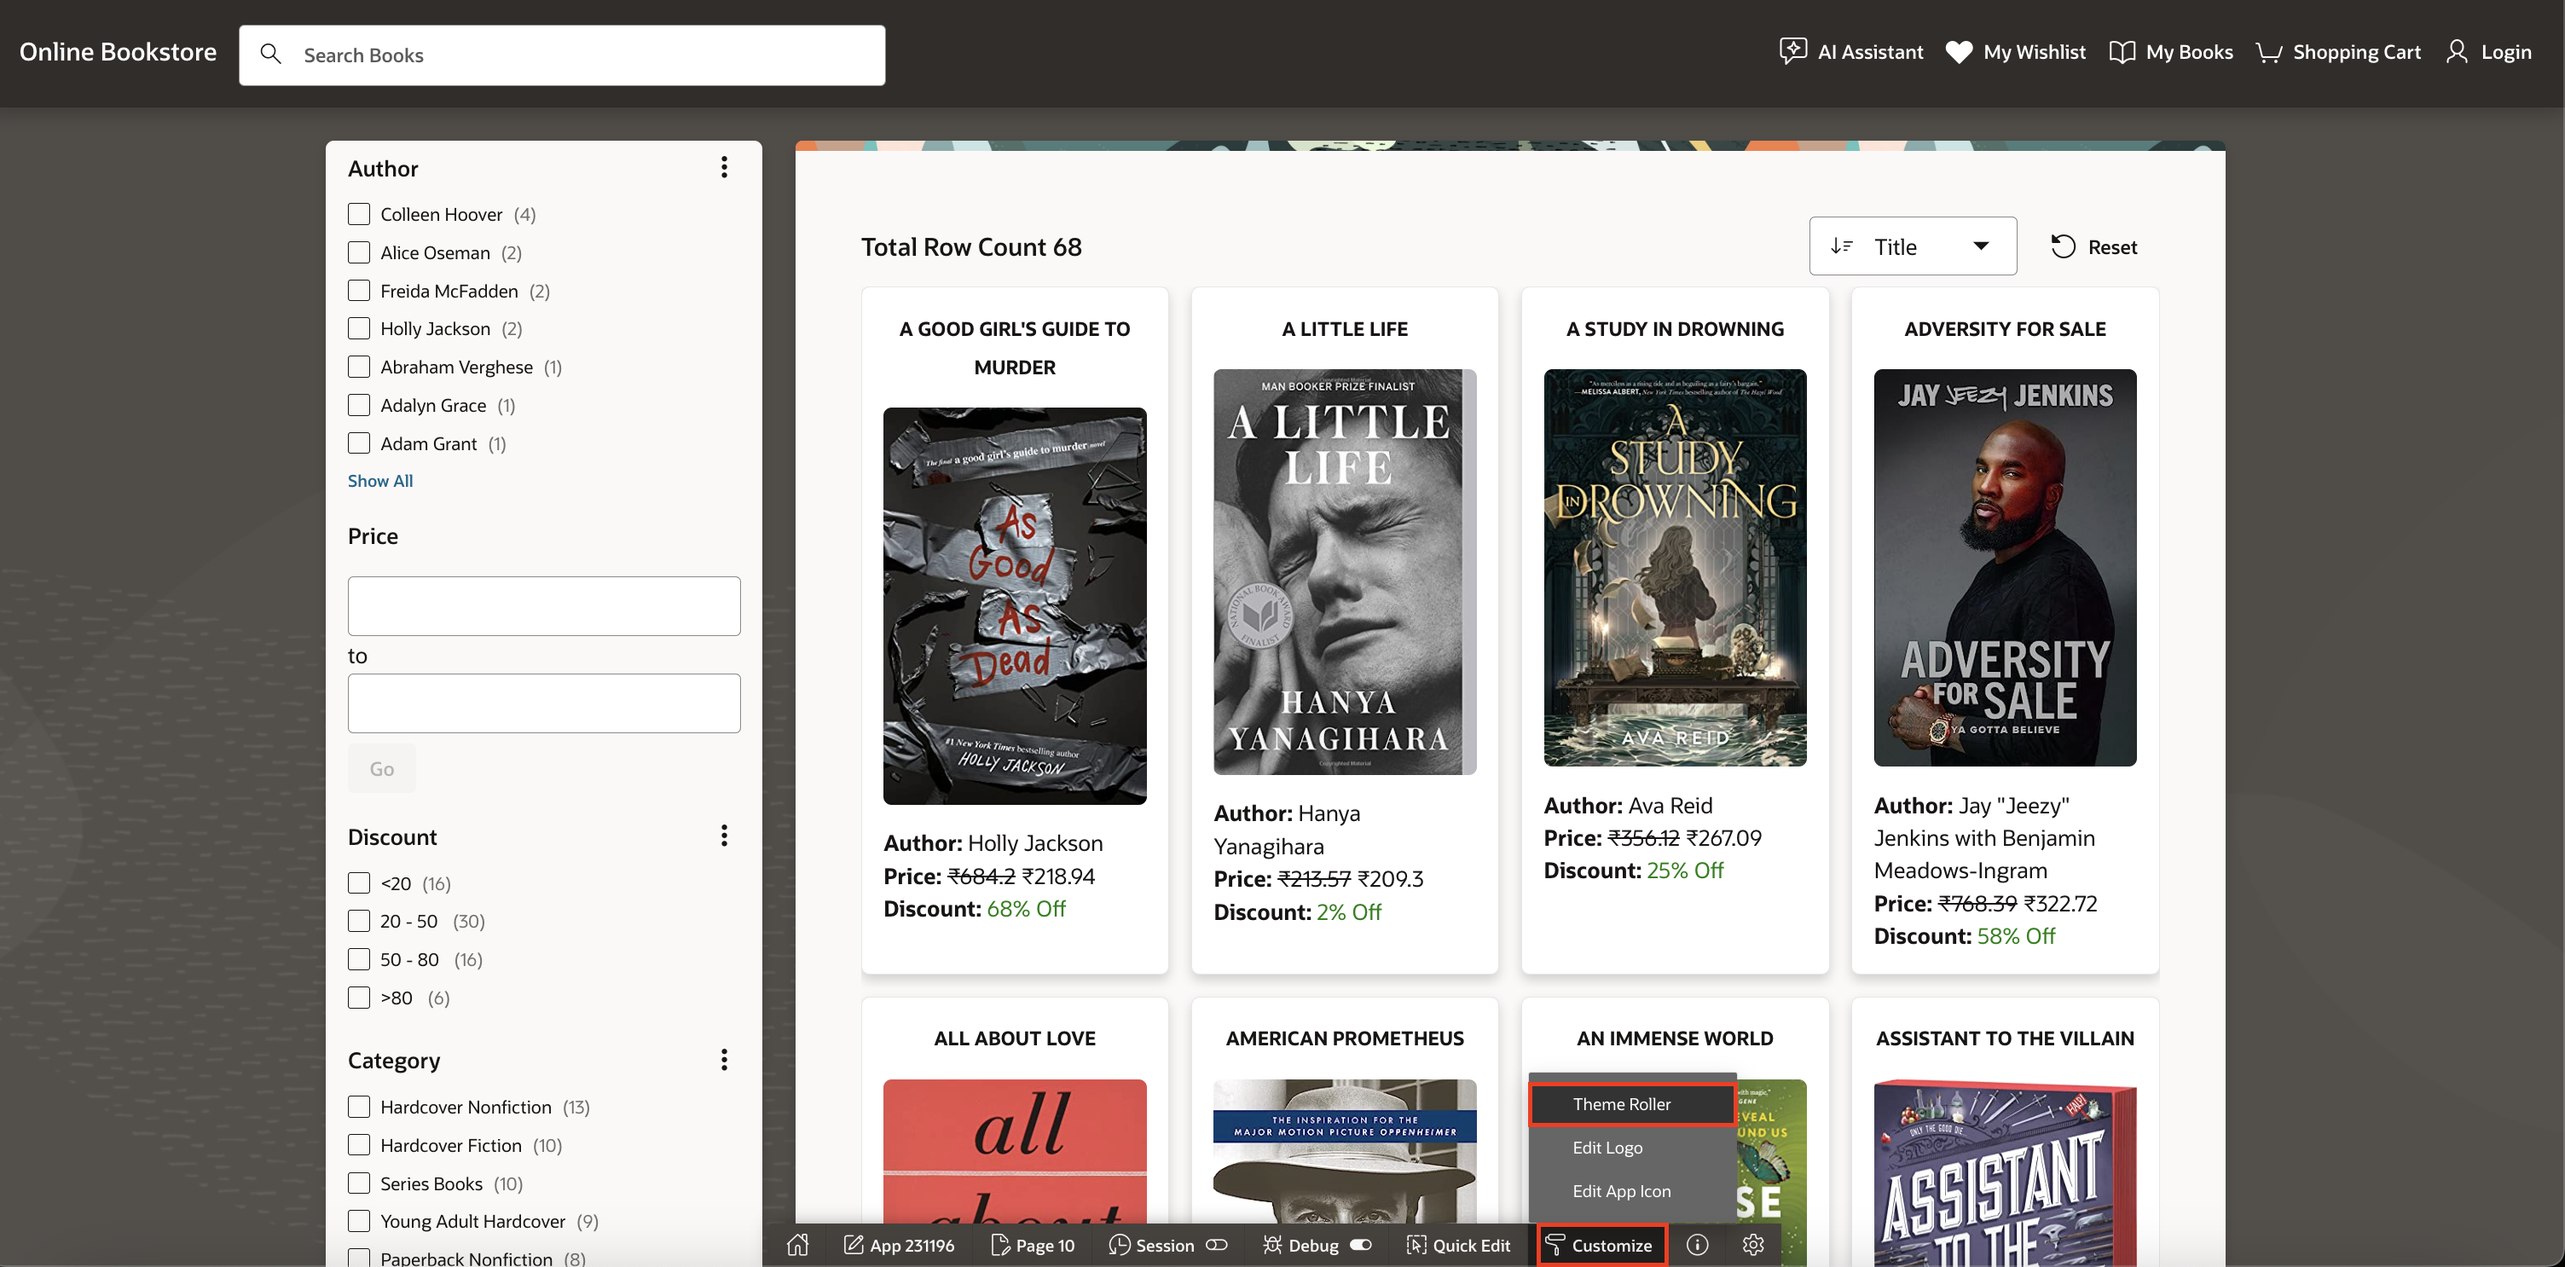
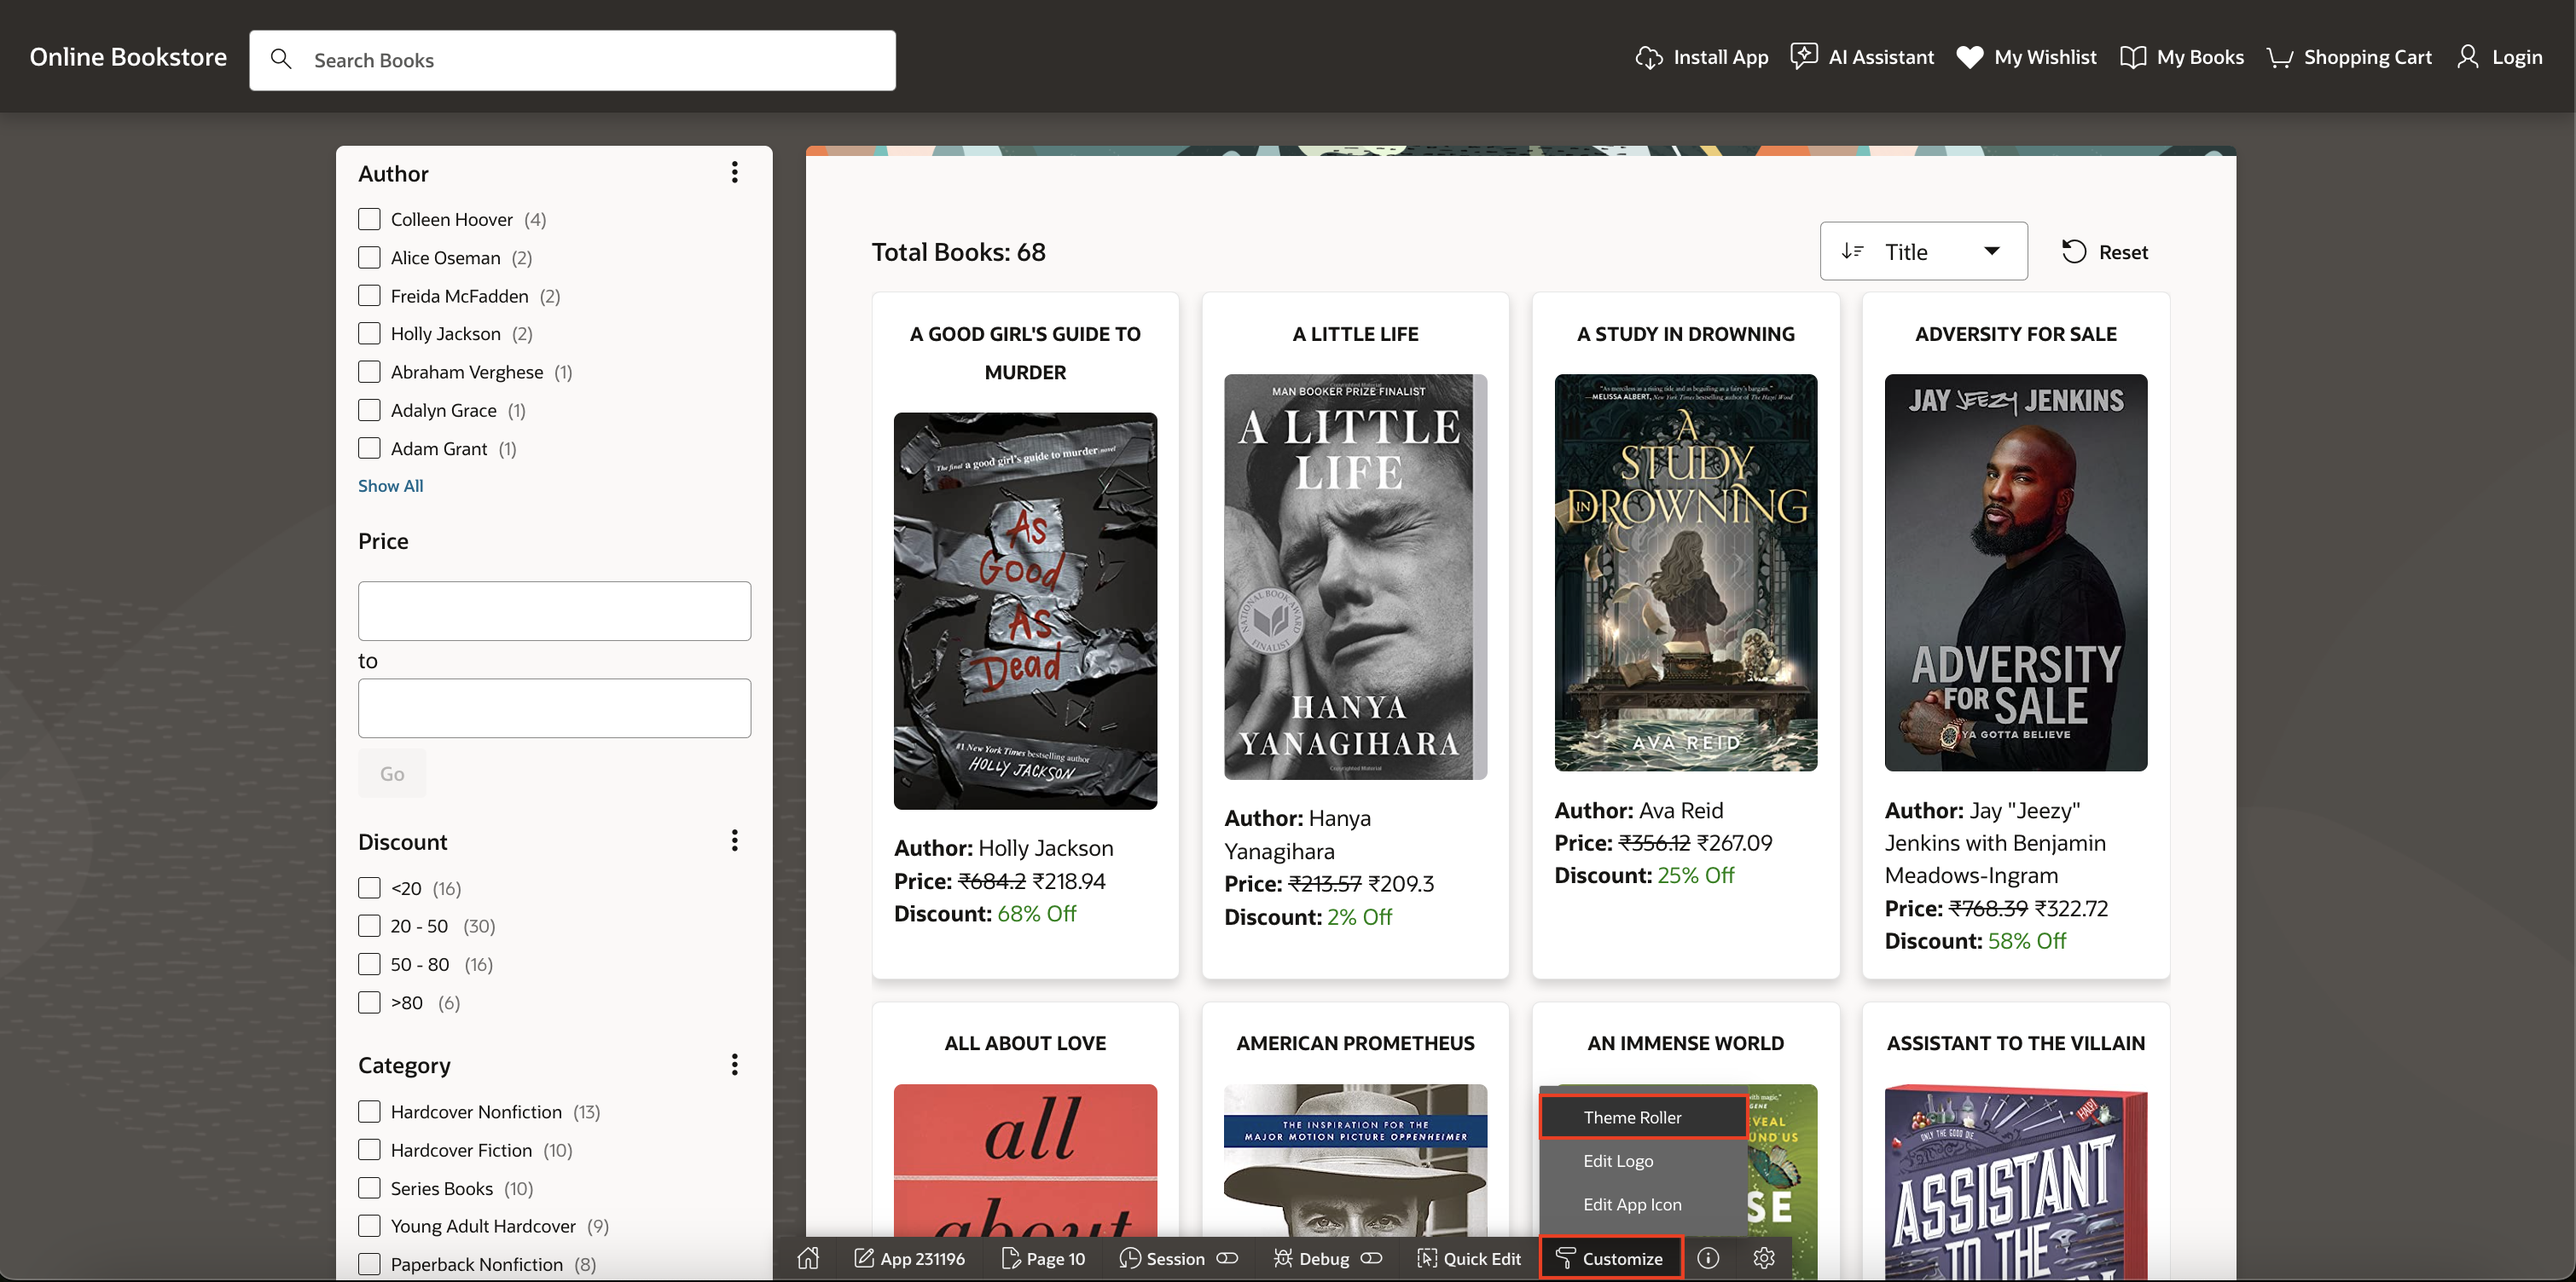
OBS 24.2 - UI results added after each task till Lab 17

diff --git a/online-book-store-app/17-enhance-ai-assistant/17-enhance-ai-assistant.md b/online-book-store-app/17-enhance-ai-assistant/17-enhance-ai-assistant.md
@@ -110,6 +110,20 @@ In this lab, you will:
 
     ![Page Designer](images/17-1-10.png ' ')
 
+## Task 2: Run the Application
+
+1. Run the application and click **AI Assistant** entry in the navigation bar.
+
+    ![Page Designer](images/17-2-1.png ' ')
+
+2. Enter questions related to orders available in the bookstore and click the send icon.
+
+    ![Page Designer](images/17-2-2.png ' ')
+
+3. Observe and analyze the responses to gain better insights.
+
+    ![Page Designer](images/17-2-3.png ' ')
+
 ## Summary
 
 You now know how to create and use multiple RAG data sources in the AI Configurations.

diff --git a/online-book-store-app/16-additional-ui-enhancements/16-additional-ui-enhancements.md b/online-book-store-app/16-additional-ui-enhancements/16-additional-ui-enhancements.md
@@ -941,7 +941,7 @@ In this lab, you will:
 
     ![Click](images/16-7-7.png " ")
 
-8. Observe the book sorting option.
+8. Observe the Books Number heading and the book sorting option.
 
     ![Click](images/16-7-8.png " ")
 
